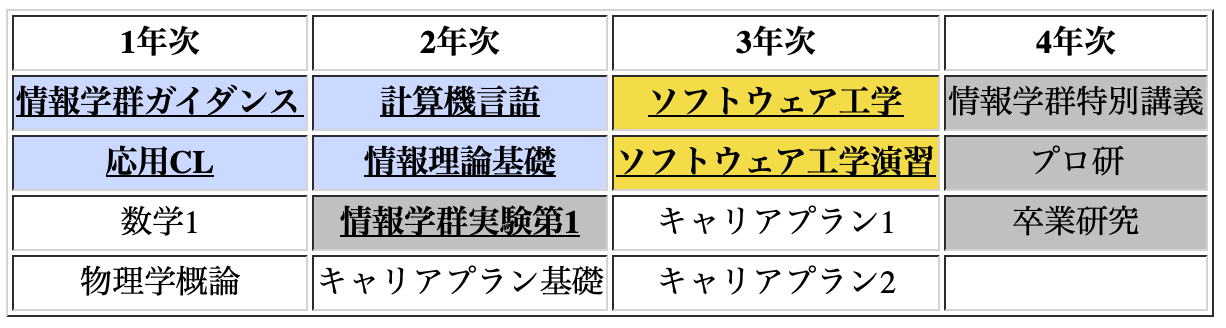
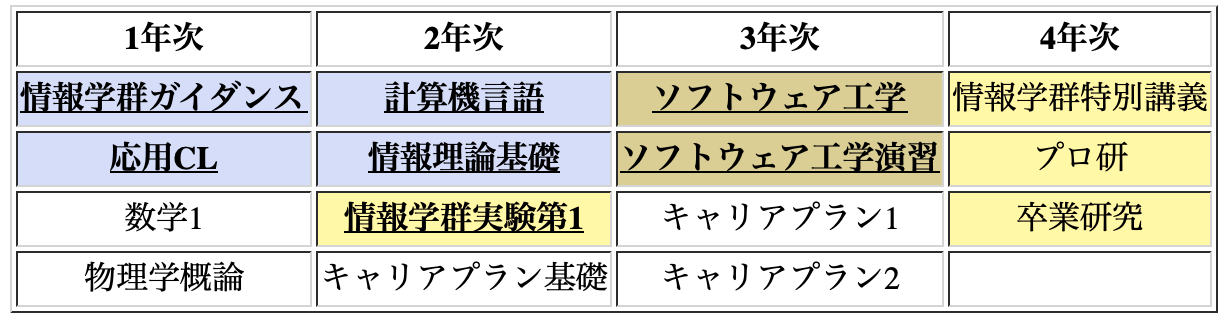
Update CSS and figures

diff --git a/10_UniversalDesign/no1_rv.css b/10_UniversalDesign/no1_rv.css
@@ -3,15 +3,15 @@ table {
 }
 
 .kiso {
-    background-color: #00ffff;
+    background-color: #B4EBFA;
 }
 
 .hatten {
-    background-color: #ffd700;
+    background-color: #EDC58F;
 }
 
 .ryouiki {
-    background-color: #c0c0c0;
+    background-color: #FFFF99;
 }
 
 p1 {
